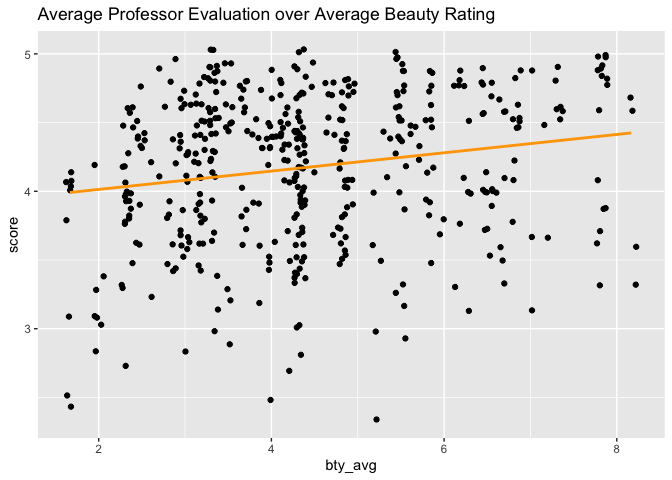
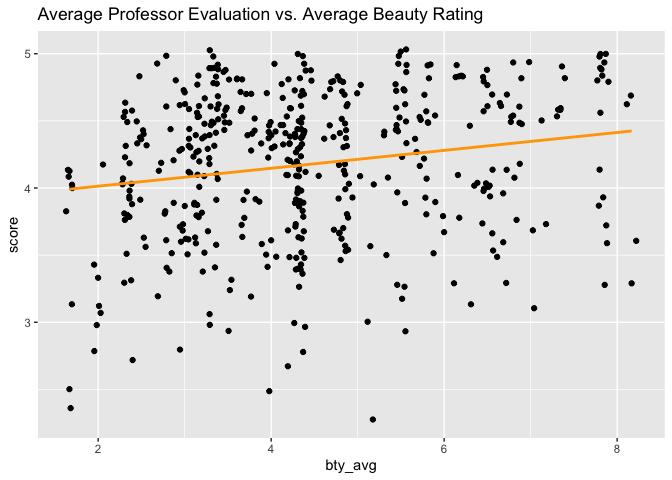
Finished!

diff --git a/lab-09.md b/lab-09.md
@@ -128,7 +128,7 @@ ggplot(evals,
             y = score)) +
   geom_jitter() + 
   geom_smooth(method = "lm", se = FALSE, color = "Orange", fullrange = TRUE) +
-  labs(title = "Average Professor Evaluation over Average Beauty Rating")
+  labs(title = "Average Professor Evaluation vs. Average Beauty Rating")
 ```
 
     ## `geom_smooth()` using formula = 'y ~ x'
@@ -165,6 +165,146 @@ variance in `bty_avg`
 
 ## Part 3
 
-## 
+### Exercise 9
 
-For Exercise 12, relevel() function can be helpful!
+Below is a linear regression model that predicts score from gender:
+
+``` r
+m_gen <- linear_reg() %>%
+  set_engine("lm") %>%
+  fit(score ~ gender, data = evals) %>%
+  tidy()
+
+m_gen
+```
+
+    ## # A tibble: 2 × 5
+    ##   term        estimate std.error statistic p.value
+    ##   <chr>          <dbl>     <dbl>     <dbl>   <dbl>
+    ## 1 (Intercept)    4.09     0.0387    106.   0      
+    ## 2 gendermale     0.142    0.0508      2.78 0.00558
+
+This output produces the following equation: `score` =
+0.1415(`gender`) + 4.0928, where a gender code of 0 means female and a
+gender code of 1 mean male. This means that female professors on average
+recieve evaluations of 4.0928, and male professors on average score
+0.1415 points higher than that.
+
+### Exercise 10
+
+The equation for female professors is: `score` = 4.09 The equation for
+male professors is: `score` = 4.23
+
+### Exercise 11
+
+``` r
+m_rank <- linear_reg() %>%
+  set_engine("lm") %>%
+  fit(score ~ rank, data = evals) %>%
+  tidy()
+
+m_rank
+```
+
+    ## # A tibble: 3 × 5
+    ##   term             estimate std.error statistic   p.value
+    ##   <chr>               <dbl>     <dbl>     <dbl>     <dbl>
+    ## 1 (Intercept)         4.28     0.0537     79.9  1.02e-271
+    ## 2 ranktenure track   -0.130    0.0748     -1.73 8.37e-  2
+    ## 3 ranktenured        -0.145    0.0636     -2.28 2.28e-  2
+
+Based on this, it looks like the average evaluation for a teaching track
+professor is 4.28 and that this decreases by 0.13 points on average for
+tenure track professors and 0.15 points on average for tenured
+professors. The overall equation is `score` = -0.1297(`tenure track`)
+-0.1452(`tenured`) + 4.2843.
+
+### Exercise 12 + 13
+
+Let’s adjust create a new rank variable where “tenure track” is the new
+baseline level, and use it to create a new linear model:
+
+``` r
+evals <- evals %>%
+  mutate(rank_relevel = relevel(evals$rank, ref = 2 ))
+
+m_rank_relevel <- linear_reg() %>%
+  set_engine("lm") %>%
+  fit(score ~ rank_relevel, data = evals)
+
+m_rank_relevel
+```
+
+    ## parsnip model object
+    ## 
+    ## 
+    ## Call:
+    ## stats::lm(formula = score ~ rank_relevel, data = data)
+    ## 
+    ## Coefficients:
+    ##          (Intercept)  rank_relevelteaching   rank_releveltenured  
+    ##               4.1546                0.1297               -0.0155
+
+``` r
+glance(m_rank_relevel)$r.squared
+```
+
+    ## [1] 0.01162894
+
+Based on this output, it looks like the predicted score for a tenure
+track professor is 4.15, which increases by 0.13 if you’re a teaching
+professor and decreases by .015 if you’re a tenured professor. The
+overall equation would be `score` = 0.1297(`teaching`) -
+0.0155(`tenured`) + 4.1546.
+
+The R-squared for this model is 0.0116, meaning that rank explains just
+over 1% of the variance in evaluations
+
+### Exercise 14
+
+Here we’ll create a new variable called `tenure_eligible` that takes the
+value of “no” for teaching professors and “yes” for tenure and tenure
+track professors:
+
+``` r
+evals <- evals %>%
+  mutate(tenure_eligible = case_when(evals$rank == "teaching" ~ "no",
+                                     evals$rank == "tenured" ~ "yes",
+                                     evals$rank == "tenure track" ~ "yes"))
+```
+
+### Exercise 15
+
+And we can now use this new variable in a linear regression to predict
+score:
+
+``` r
+m_tenure_eligible <- linear_reg() %>%
+  set_engine("lm") %>%
+  fit(score ~ tenure_eligible, data = evals)
+
+tidy(m_tenure_eligible)
+```
+
+    ## # A tibble: 2 × 5
+    ##   term               estimate std.error statistic   p.value
+    ##   <chr>                 <dbl>     <dbl>     <dbl>     <dbl>
+    ## 1 (Intercept)           4.28     0.0536     79.9  2.72e-272
+    ## 2 tenure_eligibleyes   -0.141    0.0607     -2.32 2.10e-  2
+
+``` r
+glance(m_tenure_eligible)$r.squared
+```
+
+    ## [1] 0.01149589
+
+Based on this output, it looks like the average score for a professor
+without tenure eligibility is 4.28, which decreases by 0.14 once they
+become eligible for tenure. The overall equation is `score` =
+-0.1405(`tenure_eligible`) + 4.2843.
+
+Also, R-squared is 0.0115, which means that tenure eligibility explains.
+1.15% of evaluation variance. This is just slightly less than the
+R-squared for `m_rank_relevel`, meaning that knowing whether you’re a
+tenured vs. tenure track professor does allow us to predict score
+slightly more accurately, but not by much.
